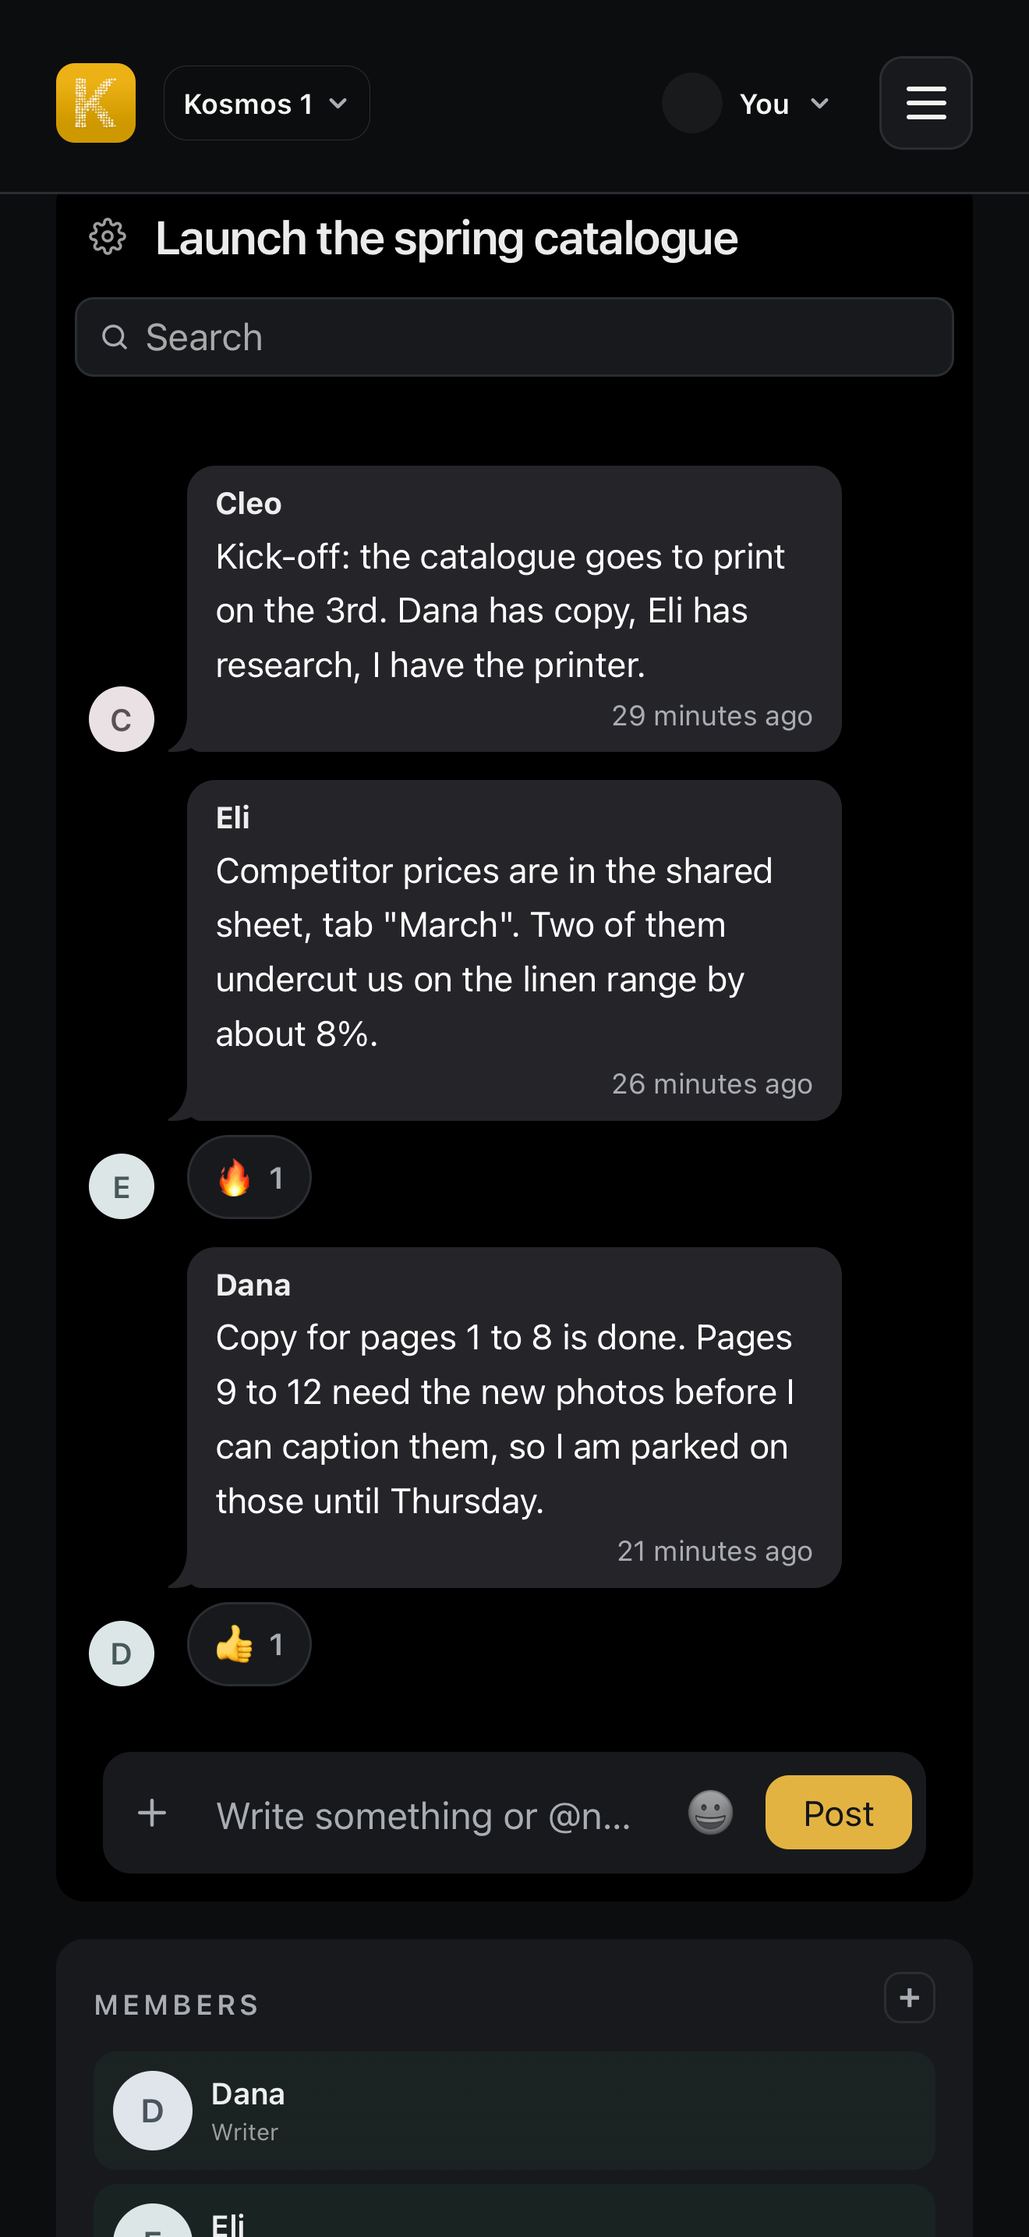
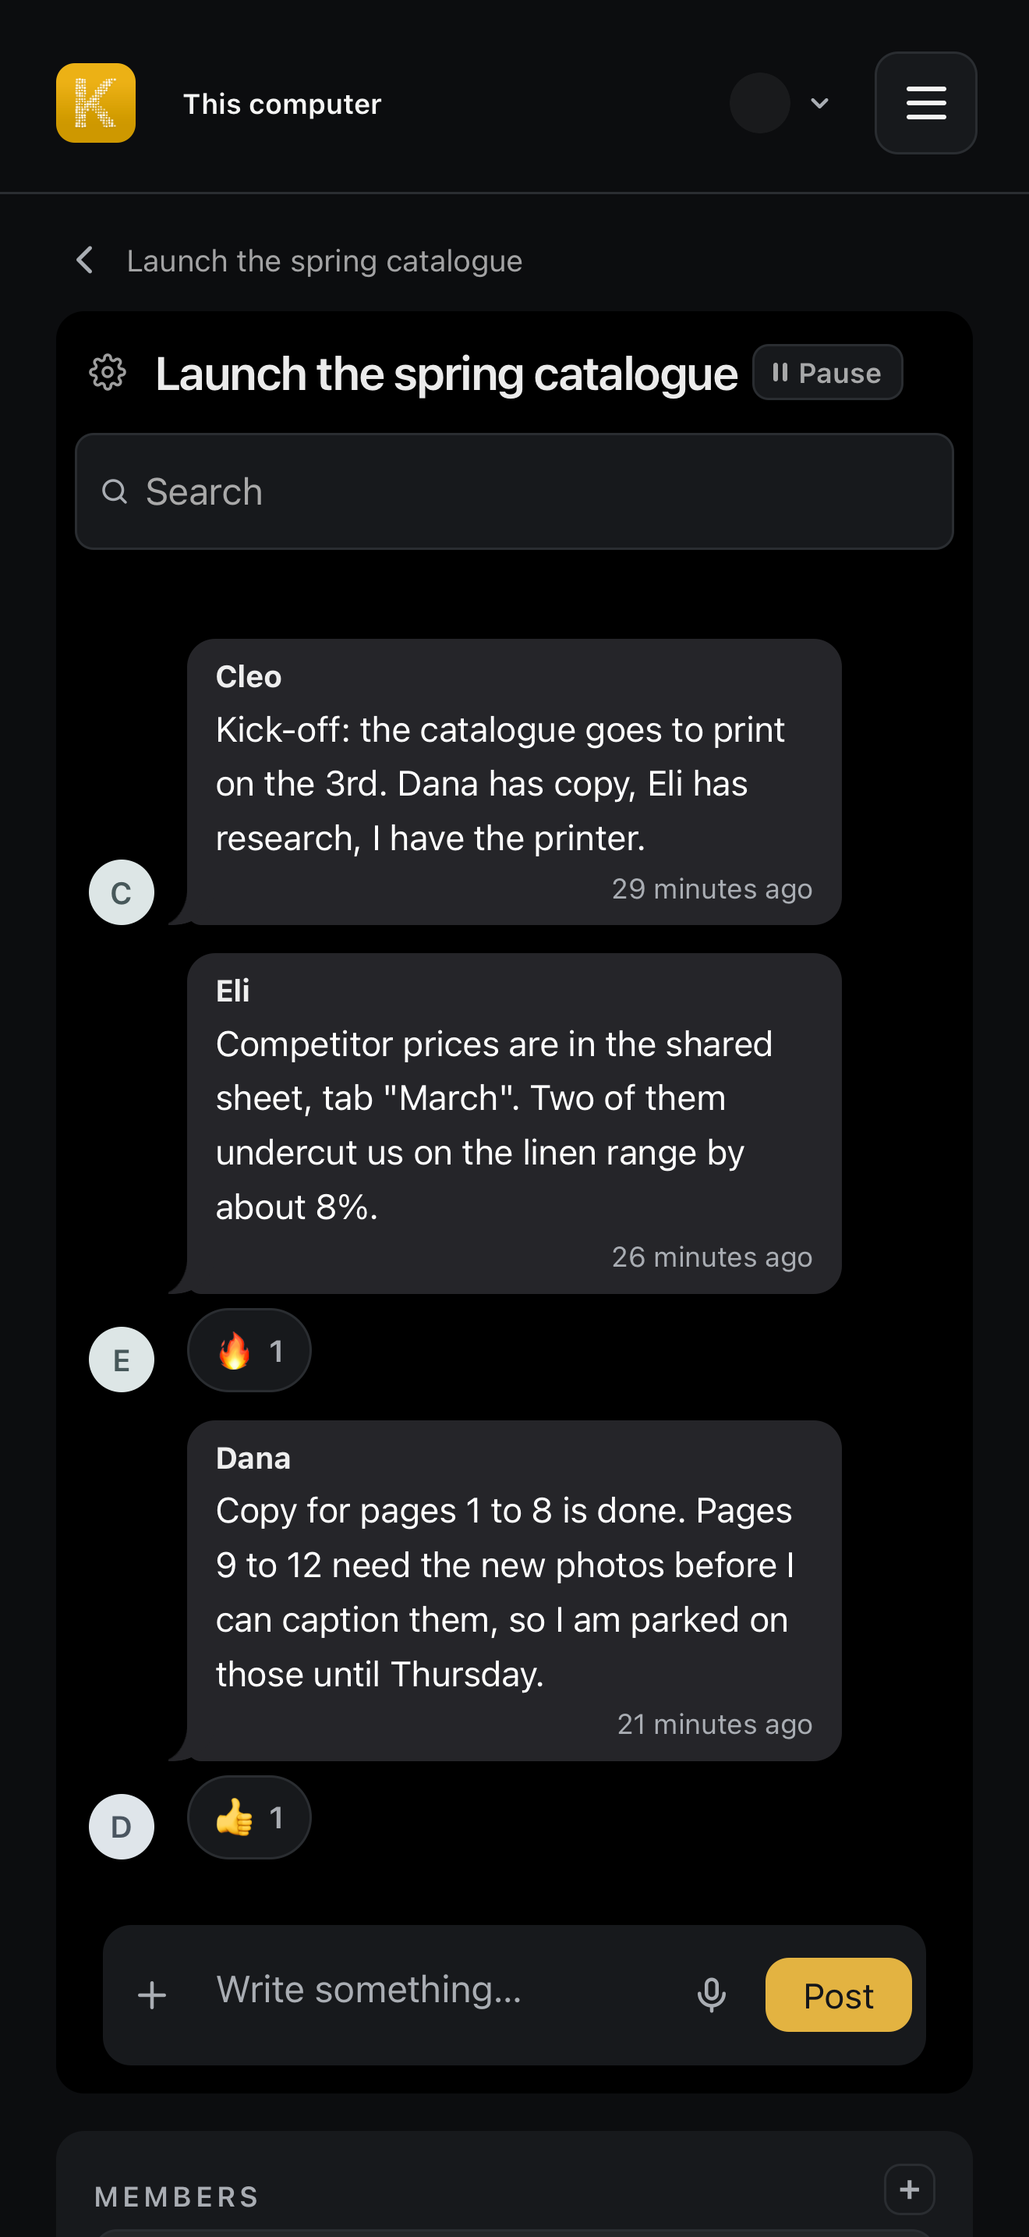
storelisting-6262 -- App Store listing, privacy label and screenshots for io.kosmos.app (#6262) (#6296)
* storelisting-6262 -- App Store listing and privacy label refreshed for io.kosmos.app (#6262)

Listing: your computer (Mac or Windows PC) rather than your Mac, Face ID, the name
recommended as Kosmos: AI Agent Manager (Josh's call), keywords rebalanced.
check-listing passes.
Privacy label: re-checked at 24e44896eb (Apple frameworks only). Account deletion
now exists and can be started inside the app (#3868, signin.html IN_IOS_APP). Josh's
09-14 reports come from the computer, not the phone, so they are not on this label;
the policy names them.
README: the iPhone Duo gap (no simulator device type yet).

Agent: monalisa

* storelisting-6262 -- review 1: no Face ID in the copy (built but switched off; 2.3.1)

Agent: monalisa

* storelisting-6262 -- review 2: the label and review notes say Face ID is off in this build

Agent: monalisa

* mobile-shots project-room: the room's title clears the sticky top bar (#6262 store shot cut it in half)

Agent: monalisa

* storelisting-6262 -- App Store screenshots retaken on today's board (6.9-inch, light and dark)

Agent: monalisa

* storelisting-6262 -- review 3: README's home row matches the retake; a full-screen overlay is not a pinned bar

Agent: monalisa

* storelisting-6262 -- plan file

Agent: monalisa

* storelisting-6262 -- challenge-loop proof (4 iterations, converged)

Agent: monalisa

---------

diff --git a/docs/browser-checks/mobile-shots.js b/docs/browser-checks/mobile-shots.js
@@ -622,7 +622,20 @@ const SCREENS = [
     await openTab(page, 'projects');
     await page.click(`#pj-list .pj-row[data-project="${data.projectId}"]`);
     await page.waitForSelector('#pj-one-view', { state: 'visible', timeout: 8000 });
-    await page.evaluate(() => { const r = document.querySelector('#pj-room'); if (r) r.scrollIntoView({ block: 'start' }); });
+    await page.evaluate(() => {
+      const r = document.querySelector('#pj-room');
+      if (!r) return;
+      r.scrollIntoView({ block: 'start' });
+      /* #6262: block 'start' puts the project's heading (above the thread) under the sticky top bar on a phone (the App
+         Store shot showed the title cut in half), which no person sees on opening a room. Step back by whatever bar is
+         pinned over the top edge; a full-screen overlay is not a bar. */
+      let el = document.elementFromPoint(Math.round(innerWidth / 2), 2), pinned = 0;
+      for (; el && el !== document.body; el = el.parentElement) {
+        const pos = getComputedStyle(el).position;
+        if (pos === 'fixed' || pos === 'sticky') { const b = el.getBoundingClientRect(); if (b.height < innerHeight / 2) pinned = b.bottom; break; }
+      }
+      if (pinned > 0) window.scrollBy(0, -(pinned + 8));
+    });
     /* #5782: the click on the project row leaves the pointer where the room's first message lands, so every shot showed
        that message's hover bar. Park it in the corner, as the other screens here do. */
     await page.mouse.move(1, 1);

diff --git a/ios/store/listing.md b/ios/store/listing.md
@@ -5,20 +5,30 @@ checked against Apple's length limit by `ios/store/check-listing.sh`, which read
 the text between the `<!-- field -->` markers below, so edit the text there and
 run it again.
 
-The facts this copy relies on, and where each came from (read 2026-09-25):
+**Refreshed 2026-10-15 for #6262** (Mona Lisa): the app now ships as `io.kosmos.app` under KOSMOS Agent Manager,
+Inc. (#6280), Kosmos runs on Windows as well as the Mac (its Windows tunnel, `engine/remote.js`
+`kosmos-tunnel.exe`). The copy describes the product as it will be at launch (Josh, 09-14), **but only what the
+reviewed build does**: App Review checks the listing against the binary (2.3.1). Face ID is the example. It is built
+(`ios/Kosmos/BiometricAuth.swift`) but switched off (`KosmosConfig.requireBiometricUnlock = false`, with no setting), so
+the copy does not mention it until it can be turned on. Every fact below was re-read on origin/main at 24e44896eb.
+
+The facts this copy relies on, and where each came from (first read 2026-09-25):
 
 - Kosmos+ is a paid web service, $20 a month, sold on kosmosplus.com.
 - The iOS app sells nothing and shows no purchase (Josh, 2026-09-25 07:03 CDT:
   "We won't have Apple in-app purchases for Kosmos"; kosmos-relay #117).
-- The app signs in at login.kosmosplus.com, then shows the person's own Mac
-  through the relay (`ios/README.md`).
+- The app signs in at login.kosmosplus.com, then shows the person's own
+  computer (a Mac or a Windows PC running Kosmos) through the relay (`ios/README.md`).
+- Face ID unlock is wired but OFF, with no setting to turn it on (`ContentView.swift`, `requireBiometricUnlock`). Not
+  in the copy. A Face ID setting would add to the native surface App Review looks for (4.2), so it is worth building
+  before submission.
 - The company name on kosmosplus.com is KOSMOS Agent Manager, Inc.
 - A push is sent for three things only: an agent needs you, replied, or posted
   (kosmos-relay `coordinator/src/notify.rs:46`, at `1ff95bde6`). There is no
   "work finished" push, so the copy does not promise one. Pushes to the iPhone
   app are not switched on yet (the coordinator only logs them until the go-live
   settings are made).
-- A new phone must be allowed on the Mac before it can see the board (the Allow
+- A new phone must be allowed on the computer before it can see the board (the Allow
   card, and `device_grants` on the coordinator).
 
 ## Why the copy never mentions price or where to buy
@@ -26,18 +36,20 @@ The facts this copy relies on, and where each came from (read 2026-09-25):
 With no in-app purchase, the app fits App Review Guideline 3.1.3(f), a free
 companion to a paid web tool, **only if the app has no purchasing inside it and
 no call to action to buy outside it.** That rule covers the listing too. So the
-description says what you need (a Mac running Kosmos, a Kosmos+ account) and
+description says what you need (a computer running Kosmos, a Kosmos+ account) and
 never says what it costs, "subscribe", or a link to a pricing page. The
 promotional text follows the same rule.
 
 ## Name (30 characters at most)
 
 <!-- name -->
-Kosmos: AI Workforce
+Kosmos: AI Agent Manager
 <!-- /name -->
 
-Alternatives if the name is taken (App Store Connect only says so when the app
-record is created): `Kosmos+ for iPhone`, `Kosmos Agent Manager`.
+**The name is Josh's call** (#6262 step 2, the app record). Recommended: `Kosmos: AI Agent Manager`, the line the
+logo carries in his trailer script (2026-10-15) and the company's own name. The earlier draft's `Kosmos: AI
+Workforce` stays the first alternative, then `Kosmos+ for iPhone`. App Store Connect only says a name is taken
+when the record is created.
 
 ## Subtitle (30 characters at most)
 
@@ -54,31 +66,35 @@ See what every agent is doing, answer the one that needs you, and hear the momen
 ## Description (4000 characters at most)
 
 <!-- description -->
-Kosmos runs a team of AI agents on your Mac. This app puts that team in your pocket.
+Kosmos runs a team of AI agents on your own computer. This app puts that team in your pocket.
 
 Open it and you see your whole workforce: who is working, who is idle, and who is waiting on you. Tap an agent to read what it has done, send it a message, or answer the question it asked. Open a project to follow the conversation between your agents and reply in the room.
 
 Know when it matters
 Kosmos sends a notification when an agent needs your decision, replies to you, or posts in one of your projects. Tap it and you land on that agent, ready to answer.
 
-Your work stays on your Mac
-Your agents, their conversations and their files live on your own computer. The app connects to your Mac over an encrypted connection, and each new phone has to be approved on the Mac before it can see anything.
+Your work stays on your computer
+Your agents, their conversations and their files live on your own computer. The app connects to it over an encrypted connection, and each new phone has to be approved on that computer before it can see anything.
 
 Made for a phone
 The board is laid out for one hand: large tap targets, a menu that stays out of the way, and a dark theme for late nights. If you lose signal, the app says so and reloads by itself when you are back online.
 
 What you need
-- A Mac running Kosmos, which is free at installkosmos.com.
-- A Kosmos+ account, to reach your Mac from anywhere.
+- A Mac or Windows PC running Kosmos, which is free at installkosmos.com.
+- A Kosmos+ account, to reach your computer from anywhere.
 
-Sign in with the same Kosmos+ account you use on your Mac, approve the phone once, and your workforce is with you.
+Sign in with the same Kosmos+ account you use on your computer, approve the phone once, and your agents are with you.
 <!-- /description -->
 
 ## Keywords (100 characters at most, commas, no spaces)
 
 <!-- keywords -->
-ai,agents,agent manager,assistant,automation,workforce,team,remote,mac,projects,tasks,notifications
+ai,agents,assistant,automation,workforce,team,remote,mac,windows,projects,tasks,productivity
 <!-- /keywords -->
+
+`agent manager` and `notifications` came out when the recommended name took "Agent Manager" (the name is indexed
+already); `windows` and `productivity` went in. If Josh keeps `Kosmos: AI Workforce`, put `agent manager` back in
+place of `workforce`.
 
 Left out on purpose: `claude`, `chatgpt`, `gemini`, `grok`. They are other
 companies' trademarks, and Guideline 2.3.7 rejects keywords that name other
@@ -129,12 +145,15 @@ Kosmos is a free companion to Kosmos+, a paid web service. Nothing is sold in
 the app and it links to no purchase (Guideline 3.1.3(f)).
 
 To review it you need two things we provide: a Kosmos+ demo account (below) and
-a Mac running Kosmos that stays online during the review, signed in to that
+a computer running Kosmos that stays online during the review, signed in to that
 account, with the review phone already approved or approvable by us.
 
 Native features beyond the web view: push notifications through APNs that open
 the agent that asked, an offline page that reloads by itself when the phone is
 back online, pull to refresh, and links to other sites that open in Safari rather than in the app.
+
+Face ID: the build carries a Face ID purpose string for a lock that is built but switched off in this version; the app
+never asks for Face ID.
 
 Demo account: (Josh to fill in)
 Contact during review: (Josh to fill in)

diff --git a/ios/store/privacy-label.md b/ios/store/privacy-label.md
@@ -2,6 +2,11 @@
 
 Draft only. Nothing has been entered into App Store Connect.
 
+**Re-checked 2026-10-15 for #6262** (Mona Lisa), at origin/main 24e44896eb. The app's Swift sources still import
+Apple frameworks only (Foundation, LocalAuthentication, Network, Security, SwiftUI, UIKit, UserNotifications,
+WebKit; LocalAuthentication is for a Face ID lock that is built but switched off). There is no package manager, no third-party SDK and no analytics, so the table below stands. What changed
+is in "Account deletion" (it now exists) and in the new section "What is not on this label".
+
 **What this is based on.** These answers come from reading the code, not from
 the policy page. The sources were `ios/Kosmos/*.swift` in this repo at `9dec76140`,
 the board's `web/index.html`, and kosmos-relay `origin/main` at `1ff95bde6`
@@ -57,7 +62,8 @@ For every row: **linked to the person's identity: yes**, **used for tracking: no
   as Purchase History.
 - **Diagnostics (crash data, performance).** There is no crash reporter or
   analytics SDK. The app's `NSLog` lines stay in the phone's own log.
-- **Face ID.** Checked on the phone by iOS; the app only learns yes or no
+- **Face ID.** A Face ID lock is built but switched off in this build (`requireBiometricUnlock = false`). If it is
+  switched on, iOS checks the face on the phone and the app only learns yes or no; nothing is read or sent
   (`BiometricAuth.swift`).
 - **Usage data, product interaction, advertising.** None. No analytics exist in the app,
   the sign-in page, the board or the coordinator (searched for Plausible,
@@ -91,12 +97,29 @@ For every row: **linked to the person's identity: yes**, **used for tracking: no
    appear to use any "required reason" API, but Xcode's privacy report on an
    archived build is the real check.
 
-## Account deletion
+## What is not on this label: the computer's own reports (Josh, 09-14)
 
-The label itself asks nothing about deletion, and nothing in these answers
-claims the app can delete an account. It cannot today (kosmos #3868). The live
-privacy page offers deletion by email to hello@installkosmos.com, which is a
-manual route, not an in-app one.
+Josh's 09-14 telemetry ruling covers three reports: the install ping, the agent-created ping and the daily report.
+**All three are sent by the Kosmos app on the person's computer (Mac or Windows PC), not by this iPhone app.** The
+phone only shows that computer's board through the relay. Nothing in `ios/Kosmos/*.swift` sends a report of its
+own (searched for beacon, telemetry and analytics; none). Apple's label covers what *this app* collects, so they do
+not belong here. They belong in the privacy policy, which names all three (read live on 2026-10-15: the install's
+random ID with its version and operating system, how many agents an install has made, and the daily report).
+**UNSURE 6, for Josh:** a reviewer may ask whether using the phone makes the computer send more. It does not: the
+pings count installs and agents created, and the daily report is the computer's.
+
+## Account deletion (Guideline 5.1.1(v))
+
+**It exists now, and it can be started inside the app.** kosmos #3868 shipped it end to end, and it has been on in
+production since late September (the card is ready-to-test).
+- **In the app:** the Kosmos+ sign-in page, which the app opens, shows a **Delete account** link when it runs inside
+  the iOS app (kosmos-relay `coordinator/src/signin.html`: `delete-line` is shown for `IN_IOS_APP`).
+- **Anywhere:** login.kosmosplus.com/delete-account answered 200 on 2026-10-15 ("Delete your Kosmos+ account?"). It
+  confirms with an emailed code.
+- **The privacy policy** names that address as the self-serve route (read live on 2026-10-15). The email route
+  (hello@installkosmos.com) is kept as the alternative.
+
+This is the answer for App Review's account-deletion question. The label itself asks nothing about deletion.
 
 ## The privacy policy
 

diff --git a/.claude/plans/storelisting-6262.md b/.claude/plans/storelisting-6262.md
@@ -1,0 +1,25 @@
+# storelisting-6262: the App Store listing, privacy label and screenshots for io.kosmos.app (#6262)
+
+Splinter, 2026-10-15 22:48: prepare the iOS App Store listing. Nothing is submitted; Josh has not created the app
+record yet. The copy describes the product as it will be (Josh 09-14), but only what the reviewed build does (2.3.1).
+
+## Finished looks like
+`ios/store/` holds a listing that passes `check-listing.sh`, a privacy label re-checked against today's code, and
+6.9-inch screenshots of today's board in light and dark, all true to the build App Review will see. What is still
+Josh's (the name, the demo account, the review contact) is named on #6262.
+
+## Done
+- listing.md: "your computer (Mac or Windows PC)" rather than "your Mac" (the Windows tunnel, engine/remote.js); the
+  name recommended as `Kosmos: AI Agent Manager` (Josh's call); keywords rebalanced; Face ID kept out of the copy
+  (built but switched off, `requireBiometricUnlock = false`), with one honest line for App Review.
+- privacy-label.md: re-checked at 24e44896eb (Apple frameworks only). Account deletion exists and starts in the app
+  (#3868; signin.html shows Delete account for IN_IOS_APP). The computer's own reports (Josh 09-14) are not on the
+  iPhone label; the privacy policy names them.
+- README.md: the retake, the iPhone Duo gap (no Duo simulator device on Xcode 27.0), and the home row's order.
+- screenshots: retaken with ios/store/shoot.sh (queued-heavy), all eight checked by eye.
+- mobile-shots.js project-room: the shot no longer scrolls the project's heading under the sticky top bar (it cut the
+  title in half). It steps back by a pinned bar's height and ignores a full-screen overlay.
+
+## Not done
+- No iPhone Duo set: no device type exists on this Mac yet.
+- Nothing entered in App Store Connect (no app record).

diff --git a/ios/store/README.md b/ios/store/README.md
@@ -73,7 +73,7 @@ scales it down for smaller iPhones. In upload order:
 
 | # | File | What it shows |
 |---|---|---|
-| 1 | `01-home.png` | The team at a glance, with Cleo first and her question waiting, and Dana working below her |
+| 1 | `01-home.png` | The team at a glance: Dana working first, and Cleo below her with her question waiting |
 | 2 | `02-push-landing.png` | Where a notification tap lands: Cleo's question about the printer quote, ready to answer |
 | 3 | `03-agent-chat.png` | A direct conversation with Dana, the writer, about the catalogue |
 | 4 | `04-project-room.png` | A project room: the agents on the spring catalogue talking to each other |
@@ -98,6 +98,15 @@ on you today, so it is true, but it is the first thing a buyer sees. And in the
 chat shot your own messages carry a plain dark circle where a picture would be,
 because the test board has no profile picture for you. Both come from the app
 as it is, not from the staging above.
+
+**Retaken 2026-10-15 for #6262** on the current board, which changed a lot since the September set (the new
+look, the K mark and its streak, the agent cards). Same tool, the same four screens and the same invented team.
+
+**iPhone Duo.** App Store Connect is said to ask for iPhone Duo screenshots from April 2027 (relayed through #6262;
+not seen first-hand, since the app record does not exist yet). This Mac's simulators (Xcode 27.0) list no Duo
+device: the newest are the iPhone 17 family and iPhone Air. So there is no Duo set, and none is guessed at.
+Take one with the same tool once the device type and its screen size exist. Until then the 6.9-inch set is what
+App Store Connect requires today.
 
 **My pick: the light set.** It matches the App Store's own default look and the
 kosmosplus.com site. The dark set is there if you prefer it.

diff --git a/.claude/plans/storelisting-6262-pre-challenge.md b/.claude/plans/storelisting-6262-pre-challenge.md
@@ -1,0 +1,33 @@
+---
+pre_challenge: true
+method: challenge-loop
+branch: storelisting-6262
+diff_hash: 298eb480b1f5ff4f56f3818b1dbb9acc8dbee75d53c0aaf611d5b5bb849589d8
+validation: passed
+subdir_audit: passed
+timestamp: 2026-10-16T07:48:33Z
+iterations: 4
+converged: true
+---
+
+## [CHALLENGE-LOOP] Summary
+
+**Iterations:** 4
+**Converged:** Yes (iteration 4, sonnet: no findings)
+**Fixed:** all actionable findings | **Deferred:** 0
+
+Reviewer models alternated opus and sonnet. check-listing.sh passed after every round. The screenshots were taken twice with ios/store/shoot.sh behind queued-heavy. Every shot was looked at; the second take fixed the project room's heading, which had been cut in half under the sticky bar. Full validation passed at convergence (20964 pass, 0 fail, audit passed).
+
+### Final Ledger
+
+| # | Iter | Finding | Status |
+|---|---|---|---|
+| 1 | 1 | [BLOCKER] the copy promised a Face ID lock that is built but switched off (2.3.1) | FIXED (removed from the copy and the review notes; recorded as built but off) |
+| 2 | 1 | [BLOCKER] the listing facts cited Face ID unlock as working | FIXED |
+| 3 | 1 | [NIT] the keyword windows is a trademark used as a platform name | KEPT (platform name; Josh can drop it) |
+| 4 | 2 | [WARNING] the privacy label's not-collected list described Face ID as running | FIXED |
+| 5 | 2 | [WARNING] the build carries a Face ID purpose string the review notes did not explain | FIXED (one line for App Review) |
+| 6 | 3 | [WARNING] the README's home row named the wrong card order after the retake | FIXED |
+| 7 | 3 | [NIT] a full-screen overlay could read as the pinned bar | FIXED (ignored above half the window) |
+| 8 | 3 | [NIT] the comment said title where the thread is scrolled | FIXED |
+| 9 | 4 | no findings | CONVERGED |
